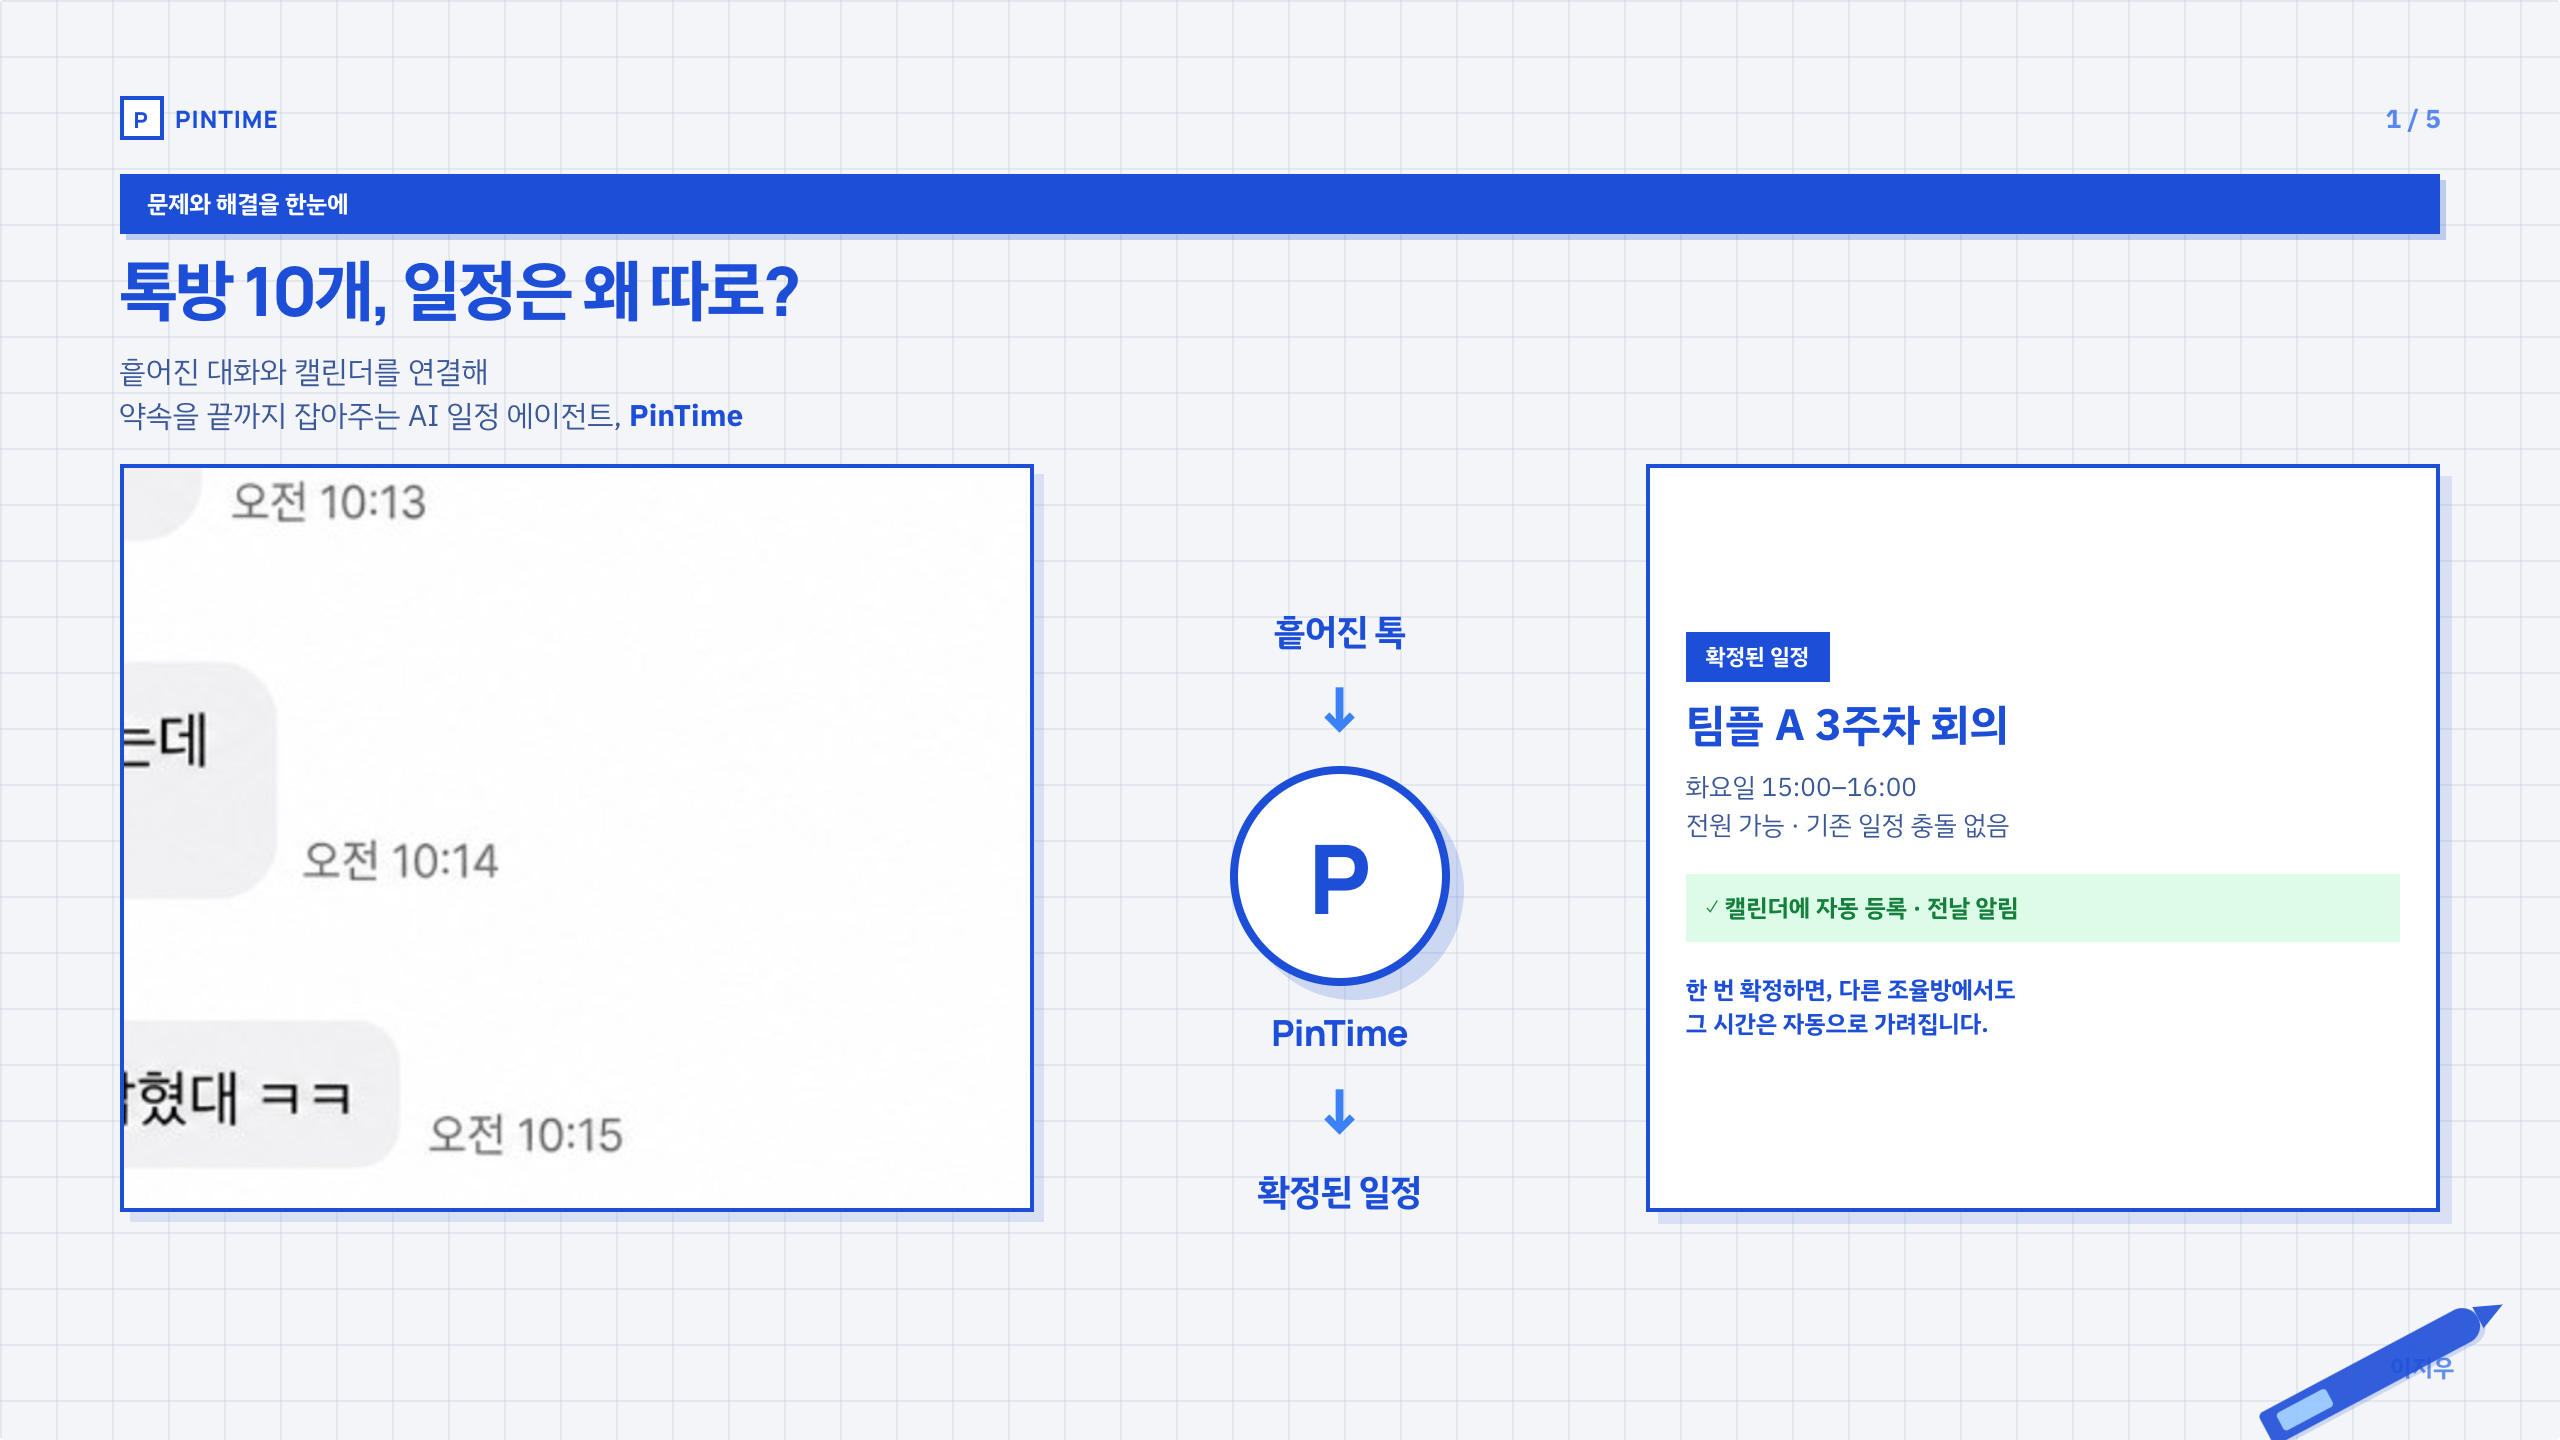
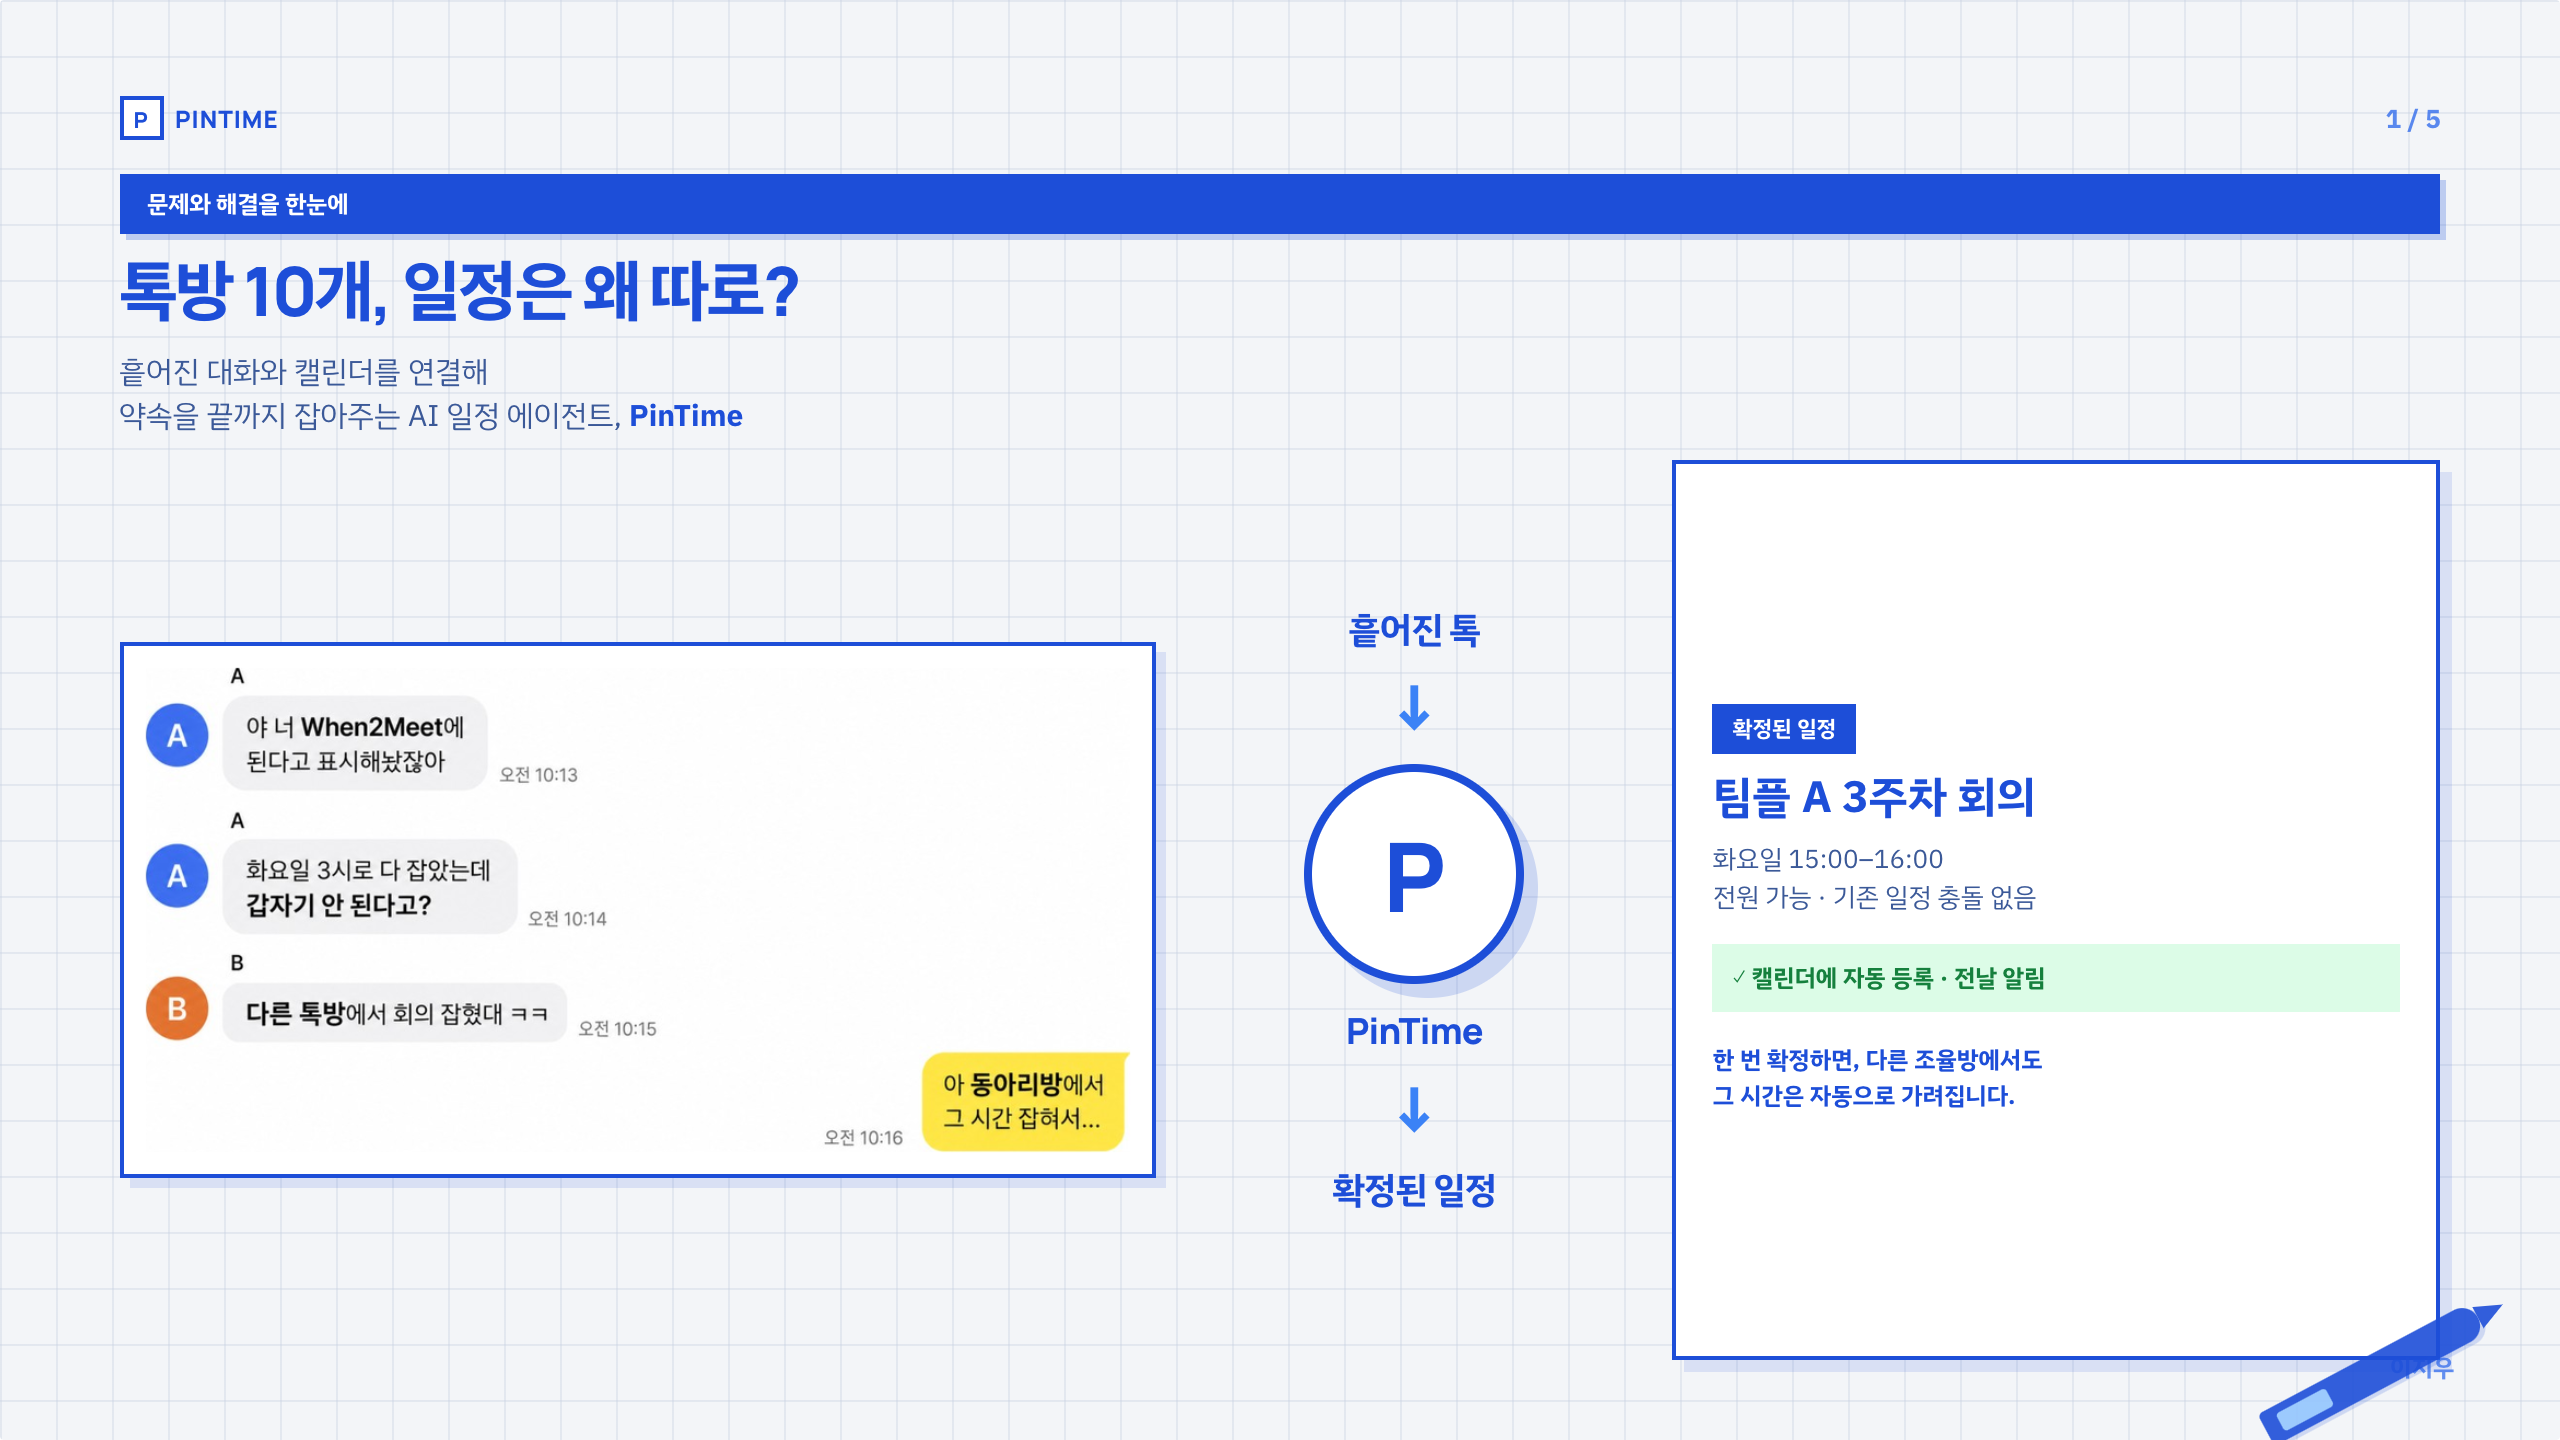
Remove letterboxing around pitch slide-1 chat image.

diff --git a/public/pitch.html b/public/pitch.html
@@ -194,12 +194,12 @@
       /* —— 개편 레이아웃 —— */
       .hero-bridge {
         display: grid;
-        grid-template-columns: 1.15fr 0.7fr 1fr;
+        grid-template-columns: 1.35fr 0.6fr 1fr;
         gap: 14px;
         align-items: stretch;
         flex: 1;
         min-height: 0;
-        margin-top: 12px;
+        margin-top: 10px;
       }
       .hero-bridge .arrow-col {
         display: flex;
@@ -242,16 +242,14 @@
         background: #fff;
         border: 2.5px solid var(--blue);
         box-shadow: 5px 5px 0 rgba(29, 78, 216, 0.12);
-        height: 3.9in;
-        max-height: 3.9in;
         overflow: hidden;
         padding: 0;
+        align-self: center;
+        width: 100%;
       }
       .hero-chat img {
         width: 100%;
-        height: 100%;
-        object-fit: cover;
-        object-position: center;
+        height: auto;
         display: block;
       }
       .mini-kakao {
@@ -306,12 +304,11 @@
         border: 2.5px solid var(--blue);
         box-shadow: 6px 6px 0 rgba(29, 78, 216, 0.12);
         padding: 16px 18px;
-        height: 3.9in;
-        max-height: 3.9in;
         display: flex;
         flex-direction: column;
         justify-content: center;
         gap: 8px;
+        align-self: stretch;
       }
       .result-card .rc-tag {
         align-self: flex-start;
